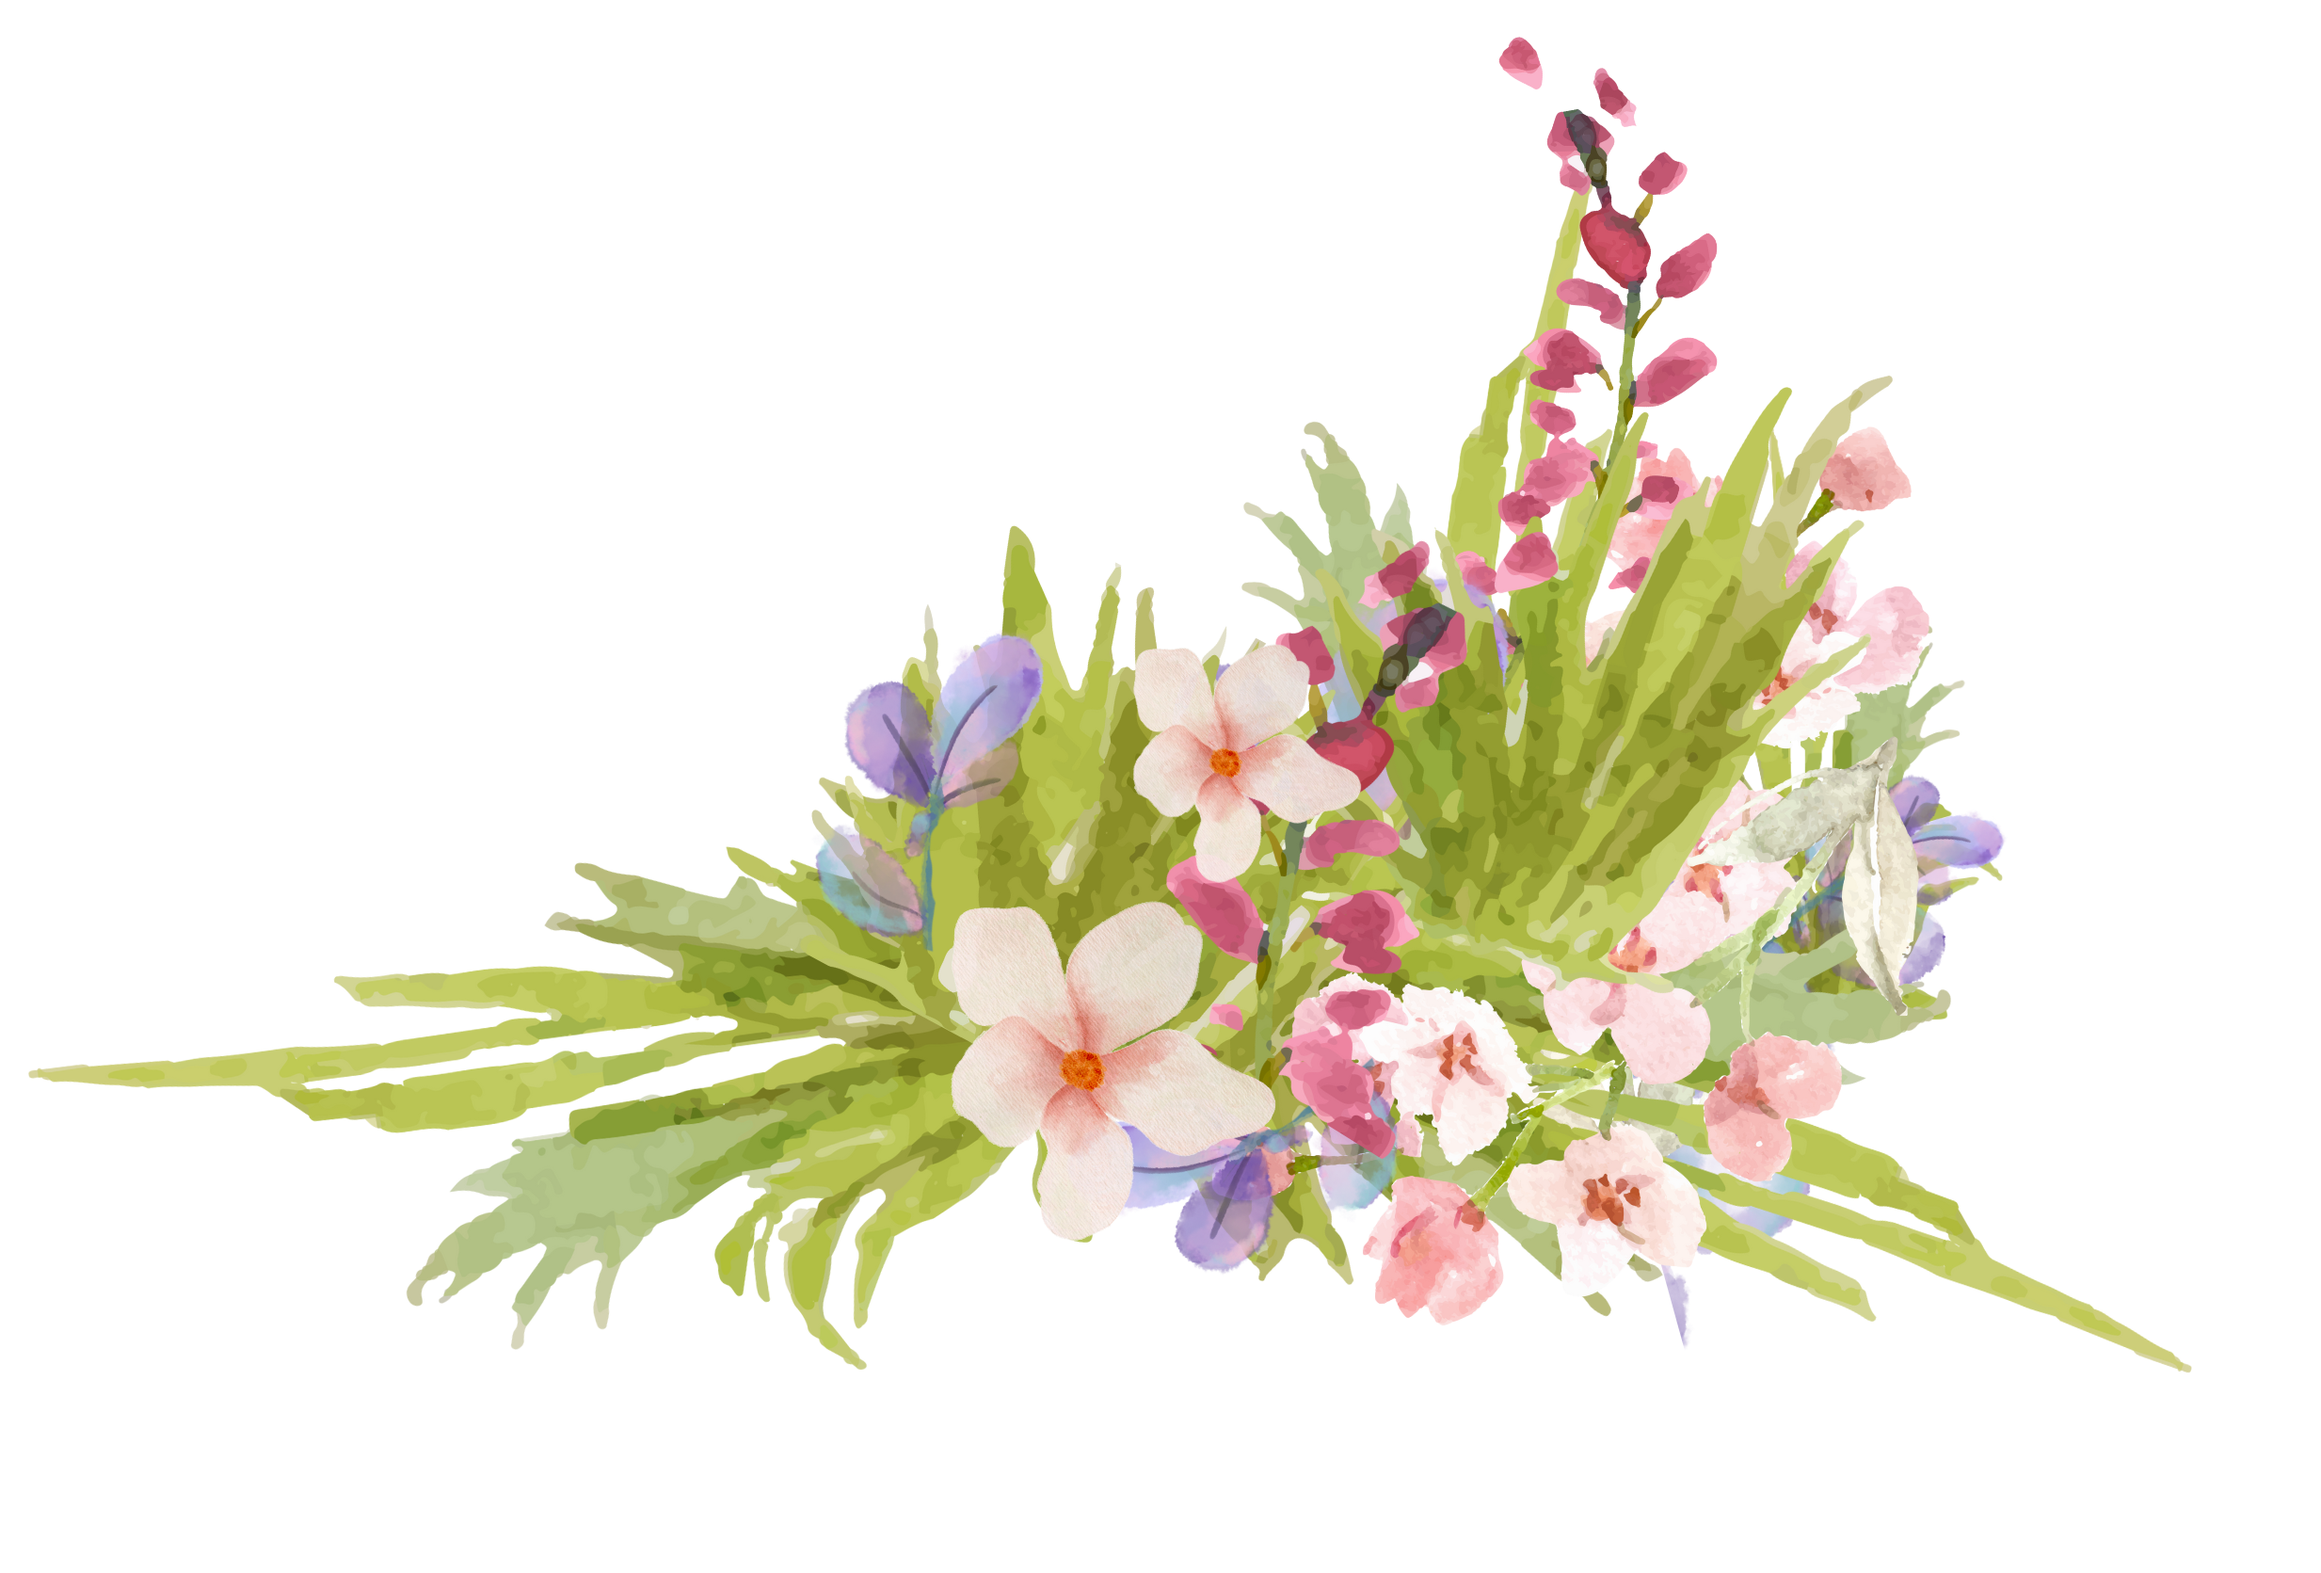
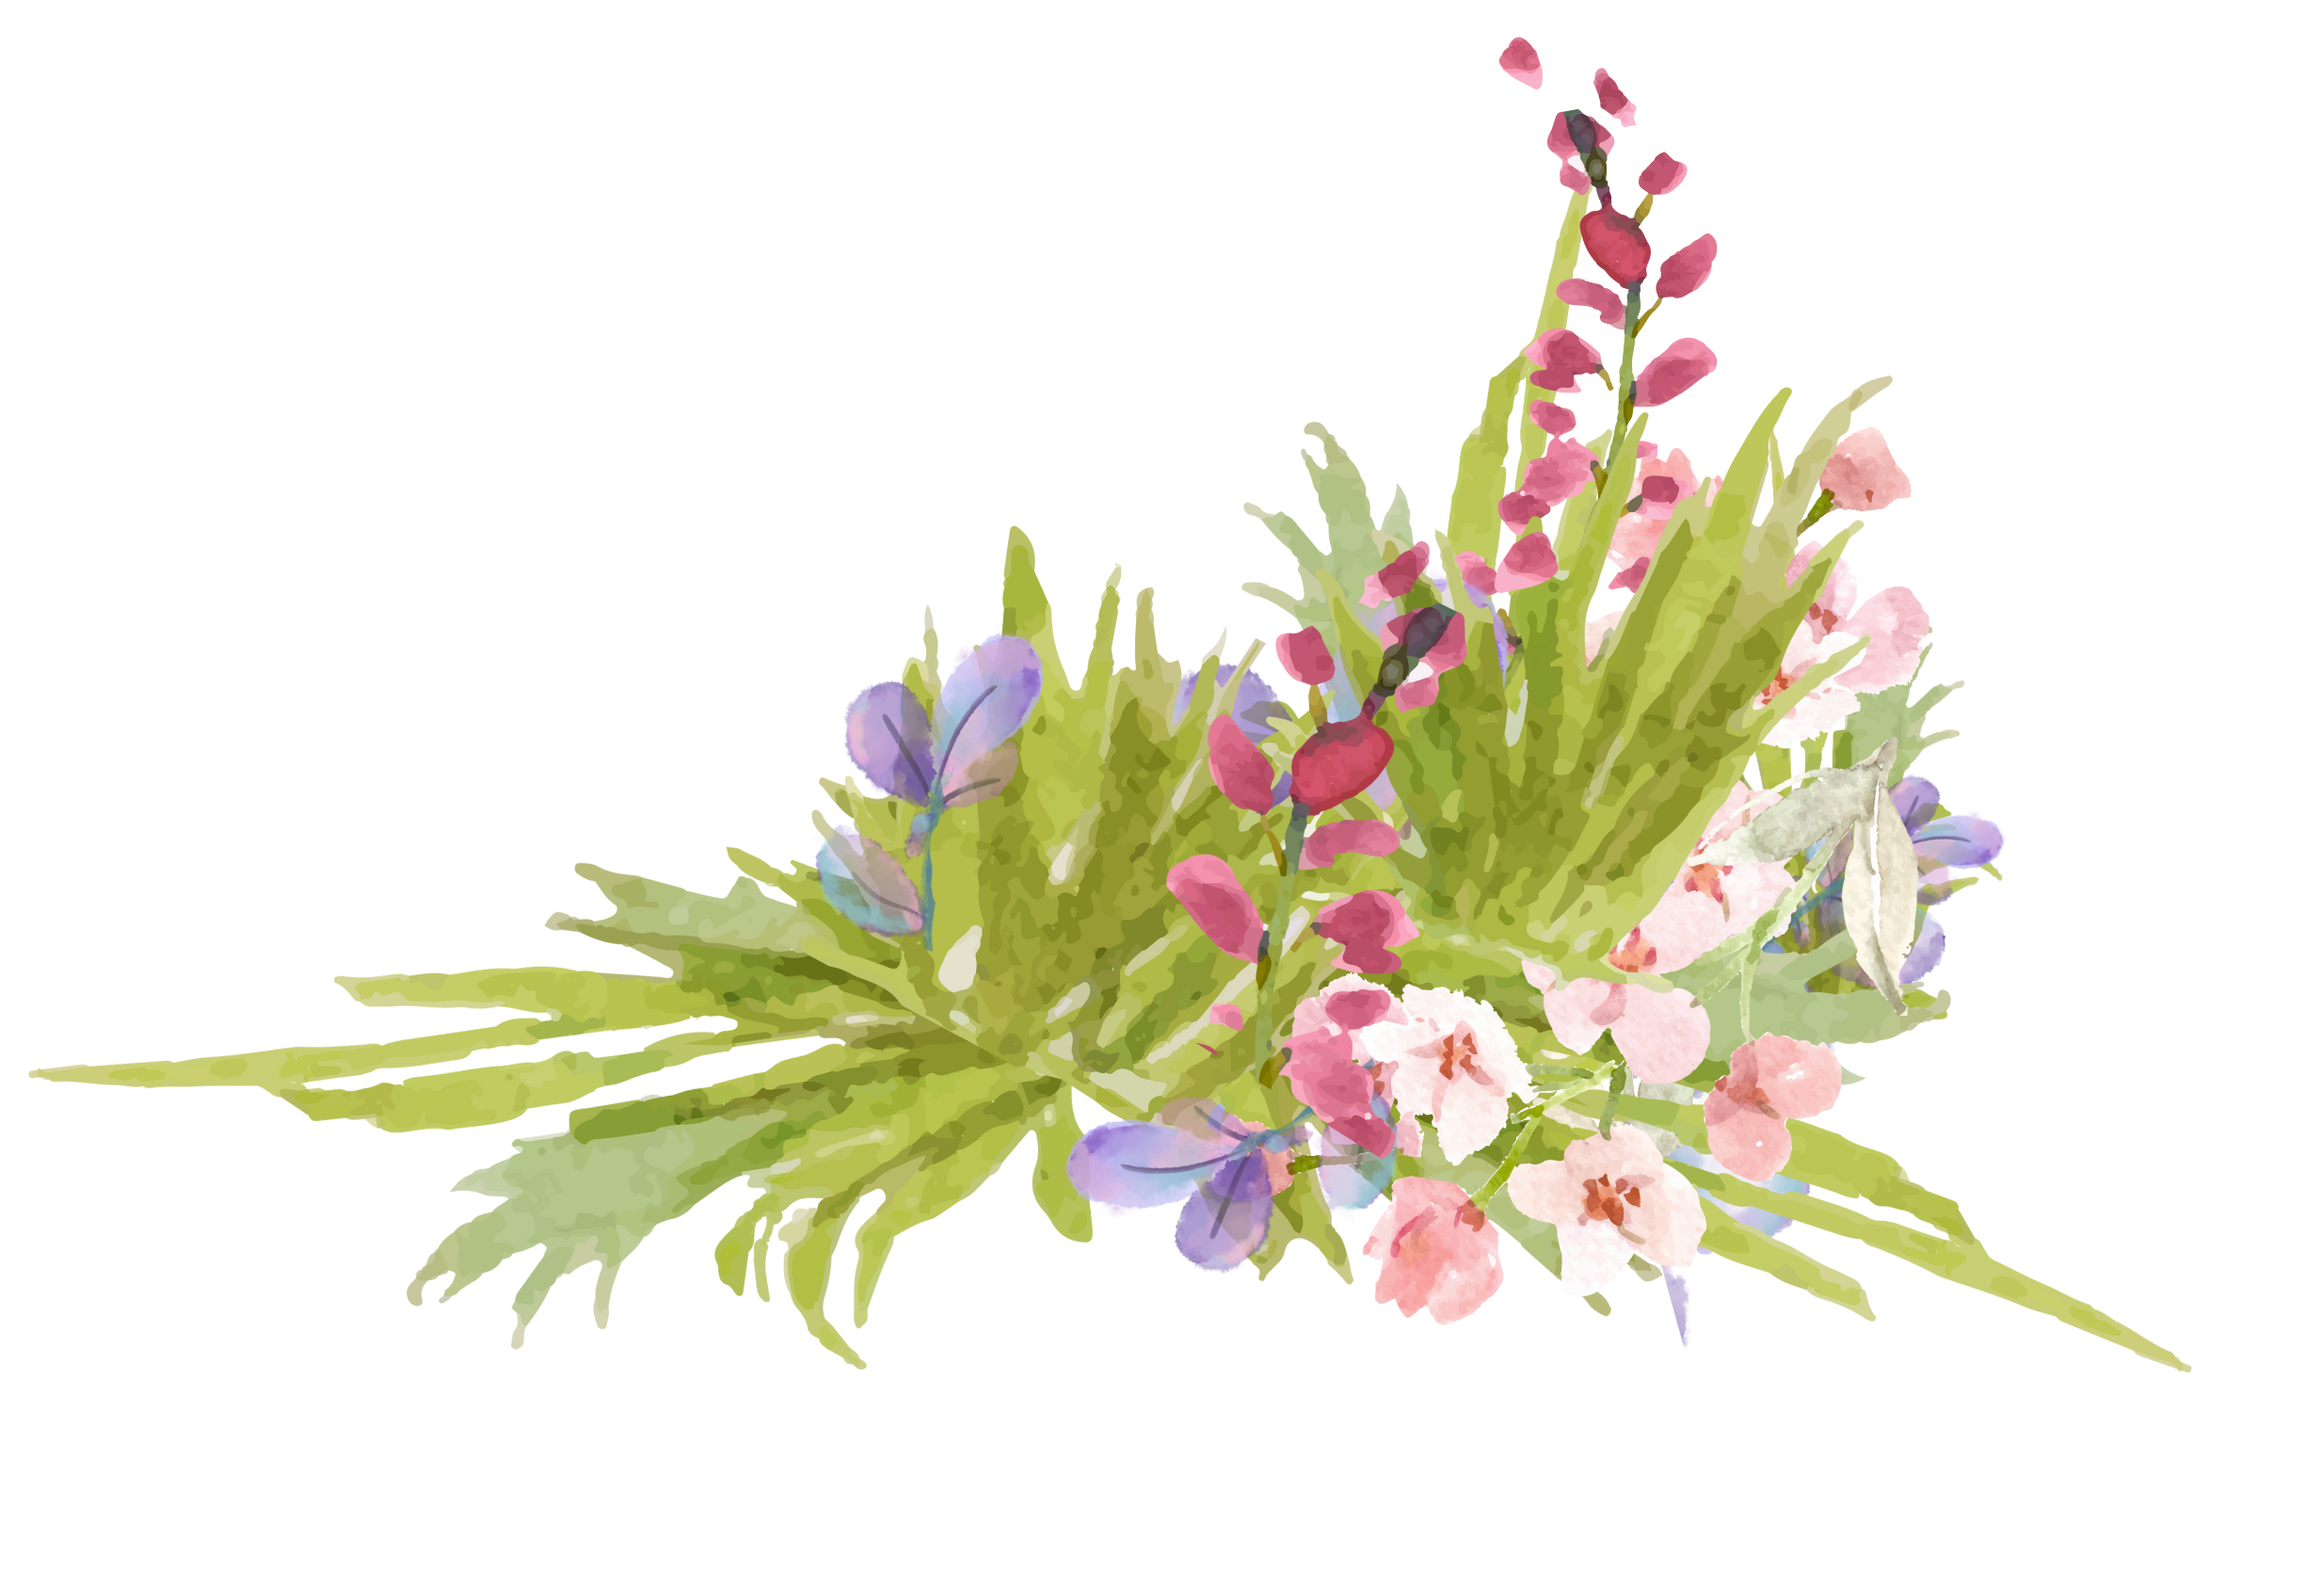
penyesuaian sedikit

Changed region(s): [[0.4059, 0.4045, 0.5933, 0.8091]]

diff --git a/index.html b/index.html
@@ -107,7 +107,7 @@
                         <img src="assets/img/Wedding/tunangan-4.jpg" alt="tunangan-4" class="">
                     </div>
                     <div class="col-12 brush_white d-flex align-items-center justify-content-center mx-auto z-2">
-                        <img src="assets/img/brush_white.png" alt="brush_white" class="">
+                        <img src="assets/img/brush_white.png" alt="brush_white" class="brush_white">
                     </div>
                     <div class="row g-0">
                         <div class="col-3 bunga_-1 d-flex align-items-start justify-content-start"
@@ -138,10 +138,10 @@
         <!-- introduction section -->
         <section id="introduction-section" class="d-flex align-items-center">
             <div class="container-fluid p-0 kotak">
-                <div class="row">
-                    <div class="d-flex justify-content-center align-items-center mx-auto col-12" data-aos="zoom-in-down"
-                        data-aos-duration="3000" data-aos-delay="100">
-                        <img src="assets/img/new_border.png" alt="border" class="border z-1">
+                <div class="row g-0">
+                    <div class="d-flex justify-content-center align-items-center mx-auto col-12">
+                        <img src="assets/img/new_border.png" alt="border" class="border border-0 z-1"
+                            data-aos="zoom-in-down" data-aos-duration="3000" data-aos-delay="1000">
                     </div>
                     <div class="justify-content-center align-items-center text-center z-2 position-absolute pemberkatan-text col-12"
                         data-aos="fade-down" data-aos-duration="3000" data-aos-delay="1000">
@@ -174,13 +174,13 @@
                             kami
                         </h6>
                     </div>
-                    <div class="col-4" data-aos="fade-up-right" data-aos-duration="3000" data-aos-delay="200">
+                    <div class="col-4 z-2" data-aos="fade-up-right" data-aos-duration="3000" data-aos-delay="200">
                         <img src="assets/img/bunga_4.png" alt="bunga_4" class="bunga_4 col-4">
                     </div>
-                    <div class="col-4" data-aos="fade-up" data-aos-duration="3000" data-aos-delay="2000">
+                    <div class="col-4 z-2" data-aos="fade-up" data-aos-duration="3000" data-aos-delay="2000">
                         <img src="assets/img/burung.png" alt="burung" class="burung col-4">
                     </div>
-                    <div class="col-4" data-aos="fade-up-left" data-aos-duration="3000" data-aos-delay="400">
+                    <div class="col-4 z-2" data-aos="fade-up-left" data-aos-duration="3000" data-aos-delay="400">
                         <img src="assets/img/bunga_3.png" alt="bunga_3" class="bunga_3 col-4">
                     </div>
                 </div>
@@ -229,8 +229,8 @@
                 <div class="gallery-section container z-5">
                     <div class="row">
                         <div class="col-8 col-sm-12">
-                            <h1 class="bundt fw-bold font-big ms-4 mt-5 pt-5" data-aos="fade-right" data-aos-duration="3000"
-                                data-aos-delay="200">Kisah Berdua</h1>
+                            <h1 class="bundt fw-bold font-big ms-4 mt-5 pt-5" data-aos="fade-right"
+                                data-aos-duration="3000" data-aos-delay="200">Kisah Berdua</h1>
                         </div>
                         <div class="col-6 col-lg-12" data-aos="fade-right" data-aos-duration="3000"
                             data-aos-delay="500">
@@ -321,15 +321,15 @@
                         <div class="atkinson fst-italic text text-center mx-auto" data-aos="zoom-in-down"
                             data-aos-duration="3000" data-aos-delay="500">
                             <h1 class="ayat">Filipi 4:13</h4>
-                            <p class="isi mb-4 fs-5">"Segala perkara dapat <br> kutanggung di dalam Dia <br> yang
-                                memberi
-                                kekuatan <br>
-                                kepadaku."</p>
-                            <p class="kalimat-penegas fs-5">Ayat ini menjadi pegangan <br> dan pengingat kami bahwa
-                                <br>
-                                dengan Kristus,
-                                tidak ada <br> yang mustahil.
-                            </p>
+                                <p class="isi mb-4 fs-5">"Segala perkara dapat <br> kutanggung di dalam Dia <br> yang
+                                    memberi
+                                    kekuatan <br>
+                                    kepadaku."</p>
+                                <p class="kalimat-penegas fs-5">Ayat ini menjadi pegangan <br> dan pengingat kami bahwa
+                                    <br>
+                                    dengan Kristus,
+                                    tidak ada <br> yang mustahil.
+                                </p>
                         </div>
                     </div>
                     <div class="col-4 z-0" data-aos="fade-up" data-aos-duration="3000" data-aos-delay="1000">
@@ -338,16 +338,18 @@
                     <div class="col-12 z-1">
                         <img src="assets/img/bunga_6.png" alt="bunga_6" class="bunga_6 z-3" data-aos="fade-up"
                             data-aos-duration="3000" data-aos-delay="1000">
-                        <div class="row z-1 position-absolute">
-                            <div class="col-3 z-1">
+                        <div class="row position-absolute">
+                            <div class="col-3 z-n1" data-aos="fade-up" data-aos-duration="3000" data-aos-delay="1000">
                                 <img src="assets/img/flower/bunga_merah_panjang.png" alt="bunga_merah_panjang"
-                                    class="bunga_merah_panjang" data-aos="fade-up" data-aos-duration="3000"
-                                    data-aos-delay="1000">
+                                    class="bunga_merah_panjang">
                             </div>
-                            <div class="col-3">
-                                <img src="assets/img/bunga_merah.png" alt="bunga_merah" class="bunga_merah_af"
-                                    data-aos="fade-up" data-aos-duration="3000" data-aos-delay="1000">
+                            <div class="col-3 z-1" data-aos="zoom-in-left" data-aos-duration="3000" data-aos-delay="1000">
+                                <img src="assets/img/bunga_merah.png" alt="bunga_merah" class="bunga_merah_af">
                             </div>
+                        </div>
+                        <div data-aos="zoom-in-up" data-aos-duration="3000" data-aos-delay="1000">
+                            <img src="assets/img/flower/bunga_putih.png" alt="bunga_putih" class="bunga_putih_1 z-1">
+                            <img src="assets/img/flower/bunga_putih.png" alt="bunga_putih" class="bunga_putih_2 z-1">
                         </div>
                     </div>
                 </div>

diff --git a/assets/css/style.css b/assets/css/style.css
@@ -371,10 +371,25 @@ body {
 .bunga_merah_af {
     width: 200px;
     position: absolute;
-    z-index: 1;
     margin-top: -400px;
     margin-left: 190px;
     animation: rotate_right 2s ease-in-out 0s infinite alternate-reverse both;
+}
+
+.bunga_putih_1 {
+    width: 200px;
+    position: absolute;
+    margin-top: -370px;
+    margin-left: 80px;
+    animation: rotate_right 2s ease-in-out 2s infinite alternate-reverse both;
+}
+
+.bunga_putih_2 {
+    width: 80px;
+    position: absolute;
+    margin-top: -390px;
+    margin-left: 150px;
+    animation: rotate_left 2s ease-in-out 1.5s infinite alternate-reverse both;
 }
 
 .text{
